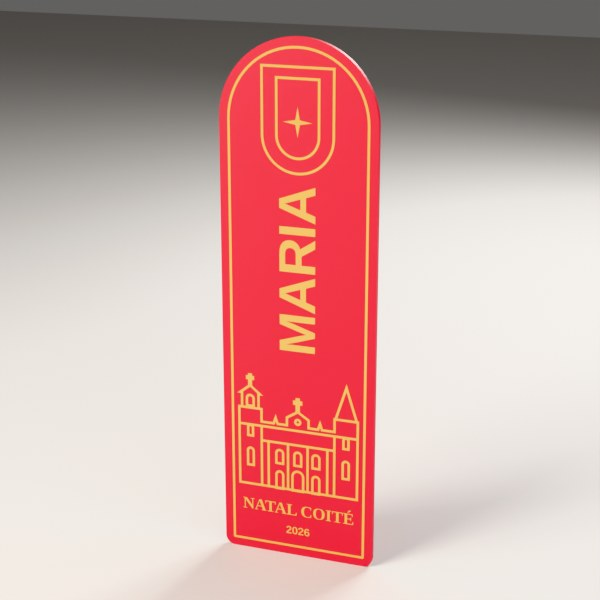
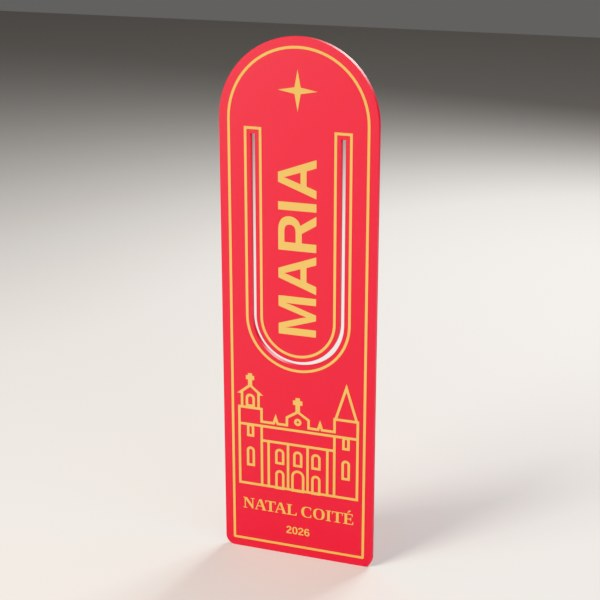
Marcador: clipe maior, com a ponta para fora do livro

Changed region(s): [[0.39, 0.09, 0.6, 0.63]]

diff --git a/index.html b/index.html
@@ -111,7 +111,7 @@ html, body { overflow-x:hidden; }
 </aside>
 <div id="toast"></div>
 <script>
-const D = {"itens": [{"id": "igreja", "nome": "Luminária Igreja Matriz", "texto": "A Matriz de Conceição do Coité iluminada por dentro, com as janelas brilhando. Base com o seu texto em letras douradas.", "img": "img/igreja.jpg", "medidas": "15,6 x 10,2 x 16,6 cm", "luz": "LED USB ou velinhas de LED", "preco": null, "preco_txt": "", "variacoes": [["Iluminação", ["LED USB", "2 velinhas de LED"]]], "campo": "Texto da base", "exemplo": "NATAL COITÉ / FAMÍLIA SILVA", "fotos": [{"quando": {"Iluminação": "2 velinhas de LED"}, "img": "img/igreja__velas.jpg"}, {"quando": {"Iluminação": "LED USB"}, "img": "img/igreja.jpg"}], "acesas": {"img/igreja.jpg": "img/igreja__acesa.jpg", "img/igreja__velas.jpg": "img/igreja__velas__acesa.jpg"}}, {"id": "arvore_luminaria", "nome": "Luminária Árvore Natal Luz", "texto": "Árvore translúcida com aros e estrela, que acende com LED. O texto contorna a base.", "img": "img/arvore_luminaria.jpg", "medidas": "12,4 x 12,5 x 24,3 cm", "luz": "LED USB", "preco": null, "preco_txt": "", "variacoes": [], "campo": "Texto da base", "exemplo": "NATAL COITÉ 2026", "fotos": [], "acesas": {"img/arvore_luminaria.jpg": "img/arvore_luminaria__acesa.jpg"}}, {"id": "estrela", "nome": "Estrela Luminosa", "texto": "A estrela de 4 pontas do Natal Coité, com a Matriz desenhada em dourado. Acende por dentro. Também no tema Natal clássico, com árvore de Natal no lugar da Matriz.", "img": "img/estrela.jpg", "medidas": "16,9 x 5,2 x 15,8 cm", "luz": "LED USB ou velinha de LED", "preco": null, "preco_txt": "", "variacoes": [["Tema", ["Natal Coité 2026", "Natal clássico (árvore)"]], ["Iluminação", ["LED USB", "Velinha de LED"]]], "campo": "Palavras dos braços", "exemplo": "NATAL / COITÉ", "fotos": [{"quando": {"Tema": "Natal clássico (árvore)", "Iluminação": "Velinha de LED"}, "img": "img/estrela__natal_velas.jpg"}, {"quando": {"Tema": "Natal clássico (árvore)"}, "img": "img/estrela__natal.jpg"}, {"quando": {"Iluminação": "Velinha de LED"}, "img": "img/estrela__velas.jpg"}, {"quando": {"Iluminação": "LED USB"}, "img": "img/estrela.jpg"}], "acesas": {"img/estrela.jpg": "img/estrela__acesa.jpg", "img/estrela__natal_velas.jpg": "img/estrela__natal_velas__acesa.jpg", "img/estrela__natal.jpg": "img/estrela__natal__acesa.jpg", "img/estrela__velas.jpg": "img/estrela__velas__acesa.jpg"}}, {"id": "presepio", "nome": "Presépio em Camadas", "texto": "Presépio em silhueta, em camadas, com a Matriz e a estrela ao fundo. Cabe uma velinha de LED atrás. Também no tema Natal clássico, com árvore de Natal no lugar da Matriz.", "img": "img/presepio.jpg", "medidas": "17 x 8,2 x 13,9 cm", "luz": "", "preco": null, "preco_txt": "", "variacoes": [["Tema", ["Natal Coité 2026", "Natal clássico (árvore)"]]], "campo": "Texto da frente", "exemplo": "NATAL COITÉ • 2026", "fotos": [{"quando": {"Tema": "Natal clássico (árvore)"}, "img": "img/presepio__natal.jpg"}], "acesas": {}}, {"id": "guirlanda", "nome": "Guirlanda de Porta", "texto": "Guirlanda de azevinho com frutinhas e medalhão central com a Matriz e o nome da família. Pronta para pendurar. Também no tema Natal clássico, com árvore de Natal no lugar da Matriz.", "img": "img/guirlanda.jpg", "medidas": "31,4 x 31,8 cm", "luz": "", "preco": null, "preco_txt": "", "variacoes": [["Tema", ["Natal Coité 2026", "Natal clássico (árvore)"]]], "campo": "Nome da família", "exemplo": "FAMÍLIA SILVA", "fotos": [{"quando": {"Tema": "Natal clássico (árvore)"}, "img": "img/guirlanda__natal.jpg"}], "acesas": {}}, {"id": "placa", "nome": "Placa de Mesa", "texto": "Placa em arco com a Matriz em traço dourado, com pé que encaixa. Ótima para a mesa da ceia ou o comércio. Também no tema Natal clássico, com árvore de Natal no lugar da Matriz.", "img": "img/placa.jpg", "medidas": "16,6 x 5,1 x 12,9 cm", "luz": "", "preco": null, "preco_txt": "", "variacoes": [["Tema", ["Natal Coité 2026", "Natal clássico (árvore)"]]], "campo": "Linha de baixo", "exemplo": "CONCEIÇÃO DO COITÉ • 2026", "fotos": [{"quando": {"Tema": "Natal clássico (árvore)"}, "img": "img/placa__natal.jpg"}], "acesas": {}}, {"id": "porta_retrato", "nome": "Porta-retrato 10x15", "texto": "Moldura com a Matriz e o nome da família em dourado, tampa de trás com trava e pezinho. Também no tema Natal clássico, com árvore de Natal no lugar da Matriz.", "img": "img/porta_retrato.jpg", "medidas": "13,4 x 6,2 x 23,3 cm", "luz": "", "preco": null, "preco_txt": "", "variacoes": [["Tema", ["Natal Coité 2026", "Natal clássico (árvore)"]]], "campo": "Nome da família", "exemplo": "FAMÍLIA SILVA • 2026", "fotos": [{"quando": {"Tema": "Natal clássico (árvore)"}, "img": "img/porta_retrato__natal.jpg"}], "acesas": {}}, {"id": "portacopos", "nome": "Jogo de Porta-copos", "texto": "4 porta-copos (Matriz, estrela, floco e nome da família) num suporte com a fachada da Matriz. Também no tema Natal clássico, com árvore de Natal no lugar da Matriz.", "img": "img/portacopos.jpg", "medidas": "10,2 x 10,2 x 8,5 cm", "luz": "", "preco": null, "preco_txt": "", "variacoes": [["Tema", ["Natal Coité 2026", "Natal clássico (árvore)"]], ["Desenhos", ["Jogo variado", "Todos Matriz", "Todos estrela", "Todos floco de neve", "Todos com o nome"]], ["Suporte", ["Com suporte da Matriz", "Sem suporte"]]], "campo": "Nome da família", "exemplo": "FAMÍLIA SILVA", "fotos": [{"quando": {"Tema": "Natal clássico (árvore)"}, "img": "img/portacopos__natal.jpg"}, {"quando": {"Desenhos": "Jogo variado", "Suporte": "Com suporte da Matriz"}, "img": "img/portacopos__variado_sim.jpg"}, {"quando": {"Desenhos": "Jogo variado", "Suporte": "Sem suporte"}, "img": "img/portacopos__variado_nao.jpg"}, {"quando": {"Desenhos": "Todos Matriz", "Suporte": "Com suporte da Matriz"}, "img": "img/portacopos__matriz_sim.jpg"}, {"quando": {"Desenhos": "Todos Matriz", "Suporte": "Sem suporte"}, "img": "img/portacopos__matriz_nao.jpg"}, {"quando": {"Desenhos": "Todos estrela", "Suporte": "Com suporte da Matriz"}, "img": "img/portacopos__estrela_sim.jpg"}, {"quando": {"Desenhos": "Todos estrela", "Suporte": "Sem suporte"}, "img": "img/portacopos__estrela_nao.jpg"}, {"quando": {"Desenhos": "Todos floco de neve", "Suporte": "Com suporte da Matriz"}, "img": "img/portacopos__floco_sim.jpg"}, {"quando": {"Desenhos": "Todos floco de neve", "Suporte": "Sem suporte"}, "img": "img/portacopos__floco_nao.jpg"}, {"quando": {"Desenhos": "Todos com o nome", "Suporte": "Com suporte da Matriz"}, "img": "img/portacopos__nome_sim.jpg"}, {"quando": {"Desenhos": "Todos com o nome", "Suporte": "Sem suporte"}, "img": "img/portacopos__nome_nao.jpg"}], "acesas": {}}, {"id": "miniatura", "nome": "Miniatura da Matriz", "texto": "A Igreja Matriz em 3D, pequena, para pendurar na árvore ou enfeitar a estante.", "img": "img/miniatura.jpg", "medidas": "6,3 x 4 x 6,1 cm", "luz": "", "preco": null, "preco_txt": "", "variacoes": [["Uso", ["Enfeite de árvore (com argola)", "Peça de mesa (sem argola)"]]], "campo": "Nome gravado atrás (opcional)", "exemplo": "FAMÍLIA SILVA", "fotos": [{"quando": {"Uso": "Peça de mesa (sem argola)"}, "img": "img/miniatura__sem_argola.jpg"}, {"quando": {"Uso": "Enfeite de árvore (com argola)"}, "img": "img/miniatura.jpg"}], "acesas": {}}, {"id": "bola", "nome": "Bola de Natal com Nome", "texto": "Bola de 8 cm com o nome em letras douradas na frente e a Matriz no verso. Também no tema Natal clássico, com árvore de Natal e FELIZ NATAL no verso.", "img": "img/bola.jpg", "medidas": "8 x 8,2 x 9 cm", "luz": "", "preco": null, "preco_txt": "", "variacoes": [["Tema", ["Natal Coité 2026", "Natal clássico (árvore)"]], ["Verso", ["Desenho do tema", "Floco de neve"]]], "campo": "Nome", "exemplo": "MARIA", "fotos": [{"quando": {"Tema": "Natal Coité 2026", "Verso": "Desenho do tema"}, "img": "img/bola__matriz.jpg"}, {"quando": {"Tema": "Natal clássico (árvore)", "Verso": "Desenho do tema"}, "img": "img/bola__arvore.jpg"}, {"quando": {"Verso": "Floco de neve"}, "img": "img/bola__floco.jpg"}], "acesas": {}}, {"id": "chaveiro", "nome": "Chaveiro Igreja, Árvore ou Circo", "texto": "Chaveiro no contorno da nossa Matriz, de uma árvore de Natal ou da lona de circo (tema do Natal Coité 2026). Leve e resistente.", "img": "img/chaveiro.jpg", "medidas": "11 x 6,1 cm", "luz": "", "preco": null, "preco_txt": "", "variacoes": [["Modelo", ["Igreja Matriz", "Árvore de Natal", "Circo"]]], "campo": "Texto da faixa", "exemplo": "NATAL COITÉ", "fotos": [{"quando": {"Modelo": "Igreja Matriz"}, "img": "img/chaveiro__igreja.jpg"}, {"quando": {"Modelo": "Circo"}, "img": "img/chaveiro__circo.jpg"}, {"quando": {"Modelo": "Árvore de Natal"}, "img": "img/chaveiro__arvore.jpg"}], "acesas": {}}, {"id": "fidget", "nome": "Fidget Giratório", "texto": "Chaveiro que gira de verdade e já sai pronto da impressora: roleta de circo (tema do Natal Coité 2026) ou floco de neve com FELIZ NATAL (Natal clássico).", "img": "img/fidget.jpg", "medidas": "4,7 x 5,5 cm", "luz": "", "preco": null, "preco_txt": "", "variacoes": [["Tema", ["Natal Coité 2026", "Natal clássico (floco de neve)"]]], "campo": "Texto do arco", "exemplo": "NATAL COITÉ", "fotos": [{"quando": {"Tema": "Natal clássico (floco de neve)"}, "img": "img/fidget__natal.jpg"}], "acesas": {}}, {"id": "medalhao", "nome": "Medalhão: enfeite, chaveiro ou ímã", "texto": "Arco, estrela e a Matriz em dourado. Em três tamanhos: enfeite de árvore, chaveiro ou ímã de geladeira. Também no tema Natal clássico, com árvore de Natal no lugar da Matriz.", "img": "img/medalhao.jpg", "medidas": "Ø 8 cm / 4,5 cm / 5,5 cm", "luz": "", "preco": null, "preco_txt": "", "variacoes": [["Tema", ["Natal Coité 2026", "Natal clássico (árvore)"]], ["Formato", ["Enfeite de árvore Ø 8 cm", "Chaveiro Ø 4,5 cm", "Ímã de geladeira Ø 5,5 cm"]]], "campo": "", "exemplo": "", "fotos": [{"quando": {"Tema": "Natal clássico (árvore)"}, "img": "img/medalhao__natal.jpg"}, {"quando": {"Formato": "Chaveiro Ø 4,5 cm"}, "img": "img/medalhao__chaveiro.jpg"}, {"quando": {"Formato": "Ímã de geladeira Ø 5,5 cm"}, "img": "img/medalhao__ima.jpg"}, {"quando": {"Formato": "Enfeite de árvore Ø 8 cm"}, "img": "img/medalhao.jpg"}], "acesas": {}}, {"id": "tags", "nome": "Tags de Presente", "texto": "Etiquetas com a Matriz e o nome de quem vai ganhar o presente, ou em branco para escrever. Também no tema Natal clássico, com árvore de Natal no lugar da Matriz.", "img": "img/tags.jpg", "medidas": "4,4 x 7,2 cm", "luz": "", "preco": null, "preco_txt": "", "variacoes": [["Tema", ["Natal Coité 2026", "Natal clássico (árvore)"]]], "campo": "Nome (vazio = tag em branco DE/PARA)", "exemplo": "MARIA", "fotos": [{"quando": {"Tema": "Natal clássico (árvore)"}, "img": "img/tags__natal.jpg"}], "acesas": {}}, {"id": "marcador", "nome": "Marcador de Página", "texto": "Marcador com o nome, a Matriz em dourado e clipe que prende na página. Lembrança que dura o ano todo. Também no tema Natal clássico, com árvore de Natal no lugar da Matriz.", "img": "img/marcador.jpg", "medidas": "4,8 x 16 cm", "luz": "", "preco": null, "preco_txt": "", "variacoes": [["Tema", ["Natal Coité 2026", "Natal clássico (árvore)"]]], "campo": "Nome", "exemplo": "ANA BEATRIZ", "fotos": [{"quando": {"Tema": "Natal clássico (árvore)"}, "img": "img/marcador__natal.jpg"}], "acesas": {}}], "whats": "5575992067303", "loja": "Loja Sigma Lab - Natal Coité 2026", "marca": "Sigma Lab 3D"};
+const D = {"itens": [{"id": "igreja", "nome": "Luminária Igreja Matriz", "texto": "A Matriz de Conceição do Coité iluminada por dentro, com as janelas brilhando. Base com o seu texto em letras douradas.", "img": "img/igreja.jpg", "medidas": "15,6 x 10,2 x 16,6 cm", "luz": "LED USB ou velinhas de LED", "preco": null, "preco_txt": "", "variacoes": [["Iluminação", ["LED USB", "2 velinhas de LED"]]], "campo": "Texto da base", "exemplo": "NATAL COITÉ / FAMÍLIA SILVA", "fotos": [{"quando": {"Iluminação": "2 velinhas de LED"}, "img": "img/igreja__velas.jpg"}, {"quando": {"Iluminação": "LED USB"}, "img": "img/igreja.jpg"}], "acesas": {"img/igreja.jpg": "img/igreja__acesa.jpg", "img/igreja__velas.jpg": "img/igreja__velas__acesa.jpg"}}, {"id": "arvore_luminaria", "nome": "Luminária Árvore Natal Luz", "texto": "Árvore translúcida com aros e estrela, que acende com LED. O texto contorna a base.", "img": "img/arvore_luminaria.jpg", "medidas": "12,4 x 12,5 x 24,3 cm", "luz": "LED USB", "preco": null, "preco_txt": "", "variacoes": [], "campo": "Texto da base", "exemplo": "NATAL COITÉ 2026", "fotos": [], "acesas": {"img/arvore_luminaria.jpg": "img/arvore_luminaria__acesa.jpg"}}, {"id": "estrela", "nome": "Estrela Luminosa", "texto": "A estrela de 4 pontas do Natal Coité, com a Matriz desenhada em dourado. Acende por dentro. Também no tema Natal clássico, com árvore de Natal no lugar da Matriz.", "img": "img/estrela.jpg", "medidas": "16,9 x 5,2 x 15,8 cm", "luz": "LED USB ou velinha de LED", "preco": null, "preco_txt": "", "variacoes": [["Tema", ["Natal Coité 2026", "Natal clássico (árvore)"]], ["Iluminação", ["LED USB", "Velinha de LED"]]], "campo": "Palavras dos braços", "exemplo": "NATAL / COITÉ", "fotos": [{"quando": {"Tema": "Natal clássico (árvore)", "Iluminação": "Velinha de LED"}, "img": "img/estrela__natal_velas.jpg"}, {"quando": {"Tema": "Natal clássico (árvore)"}, "img": "img/estrela__natal.jpg"}, {"quando": {"Iluminação": "Velinha de LED"}, "img": "img/estrela__velas.jpg"}, {"quando": {"Iluminação": "LED USB"}, "img": "img/estrela.jpg"}], "acesas": {"img/estrela.jpg": "img/estrela__acesa.jpg", "img/estrela__natal_velas.jpg": "img/estrela__natal_velas__acesa.jpg", "img/estrela__natal.jpg": "img/estrela__natal__acesa.jpg", "img/estrela__velas.jpg": "img/estrela__velas__acesa.jpg"}}, {"id": "presepio", "nome": "Presépio em Camadas", "texto": "Presépio em silhueta, em camadas, com a Matriz e a estrela ao fundo. Cabe uma velinha de LED atrás. Também no tema Natal clássico, com árvore de Natal no lugar da Matriz.", "img": "img/presepio.jpg", "medidas": "17 x 8,2 x 13,9 cm", "luz": "", "preco": null, "preco_txt": "", "variacoes": [["Tema", ["Natal Coité 2026", "Natal clássico (árvore)"]]], "campo": "Texto da frente", "exemplo": "NATAL COITÉ • 2026", "fotos": [{"quando": {"Tema": "Natal clássico (árvore)"}, "img": "img/presepio__natal.jpg"}], "acesas": {}}, {"id": "guirlanda", "nome": "Guirlanda de Porta", "texto": "Guirlanda de azevinho com frutinhas e medalhão central com a Matriz e o nome da família. Pronta para pendurar. Também no tema Natal clássico, com árvore de Natal no lugar da Matriz.", "img": "img/guirlanda.jpg", "medidas": "31,4 x 31,8 cm", "luz": "", "preco": null, "preco_txt": "", "variacoes": [["Tema", ["Natal Coité 2026", "Natal clássico (árvore)"]]], "campo": "Nome da família", "exemplo": "FAMÍLIA SILVA", "fotos": [{"quando": {"Tema": "Natal clássico (árvore)"}, "img": "img/guirlanda__natal.jpg"}], "acesas": {}}, {"id": "placa", "nome": "Placa de Mesa", "texto": "Placa em arco com a Matriz em traço dourado, com pé que encaixa. Ótima para a mesa da ceia ou o comércio. Também no tema Natal clássico, com árvore de Natal no lugar da Matriz.", "img": "img/placa.jpg", "medidas": "16,6 x 5,1 x 12,9 cm", "luz": "", "preco": null, "preco_txt": "", "variacoes": [["Tema", ["Natal Coité 2026", "Natal clássico (árvore)"]]], "campo": "Linha de baixo", "exemplo": "CONCEIÇÃO DO COITÉ • 2026", "fotos": [{"quando": {"Tema": "Natal clássico (árvore)"}, "img": "img/placa__natal.jpg"}], "acesas": {}}, {"id": "porta_retrato", "nome": "Porta-retrato 10x15", "texto": "Moldura com a Matriz e o nome da família em dourado, tampa de trás com trava e pezinho. Também no tema Natal clássico, com árvore de Natal no lugar da Matriz.", "img": "img/porta_retrato.jpg", "medidas": "13,4 x 6,2 x 23,3 cm", "luz": "", "preco": null, "preco_txt": "", "variacoes": [["Tema", ["Natal Coité 2026", "Natal clássico (árvore)"]]], "campo": "Nome da família", "exemplo": "FAMÍLIA SILVA • 2026", "fotos": [{"quando": {"Tema": "Natal clássico (árvore)"}, "img": "img/porta_retrato__natal.jpg"}], "acesas": {}}, {"id": "portacopos", "nome": "Jogo de Porta-copos", "texto": "4 porta-copos (Matriz, estrela, floco e nome da família) num suporte com a fachada da Matriz. Também no tema Natal clássico, com árvore de Natal no lugar da Matriz.", "img": "img/portacopos.jpg", "medidas": "10,2 x 10,2 x 8,5 cm", "luz": "", "preco": null, "preco_txt": "", "variacoes": [["Tema", ["Natal Coité 2026", "Natal clássico (árvore)"]], ["Desenhos", ["Jogo variado", "Todos Matriz", "Todos estrela", "Todos floco de neve", "Todos com o nome"]], ["Suporte", ["Com suporte da Matriz", "Sem suporte"]]], "campo": "Nome da família", "exemplo": "FAMÍLIA SILVA", "fotos": [{"quando": {"Tema": "Natal clássico (árvore)"}, "img": "img/portacopos__natal.jpg"}, {"quando": {"Desenhos": "Jogo variado", "Suporte": "Com suporte da Matriz"}, "img": "img/portacopos__variado_sim.jpg"}, {"quando": {"Desenhos": "Jogo variado", "Suporte": "Sem suporte"}, "img": "img/portacopos__variado_nao.jpg"}, {"quando": {"Desenhos": "Todos Matriz", "Suporte": "Com suporte da Matriz"}, "img": "img/portacopos__matriz_sim.jpg"}, {"quando": {"Desenhos": "Todos Matriz", "Suporte": "Sem suporte"}, "img": "img/portacopos__matriz_nao.jpg"}, {"quando": {"Desenhos": "Todos estrela", "Suporte": "Com suporte da Matriz"}, "img": "img/portacopos__estrela_sim.jpg"}, {"quando": {"Desenhos": "Todos estrela", "Suporte": "Sem suporte"}, "img": "img/portacopos__estrela_nao.jpg"}, {"quando": {"Desenhos": "Todos floco de neve", "Suporte": "Com suporte da Matriz"}, "img": "img/portacopos__floco_sim.jpg"}, {"quando": {"Desenhos": "Todos floco de neve", "Suporte": "Sem suporte"}, "img": "img/portacopos__floco_nao.jpg"}, {"quando": {"Desenhos": "Todos com o nome", "Suporte": "Com suporte da Matriz"}, "img": "img/portacopos__nome_sim.jpg"}, {"quando": {"Desenhos": "Todos com o nome", "Suporte": "Sem suporte"}, "img": "img/portacopos__nome_nao.jpg"}], "acesas": {}}, {"id": "miniatura", "nome": "Miniatura da Matriz", "texto": "A Igreja Matriz em 3D, pequena, para pendurar na árvore ou enfeitar a estante.", "img": "img/miniatura.jpg", "medidas": "6,3 x 4 x 6,1 cm", "luz": "", "preco": null, "preco_txt": "", "variacoes": [["Uso", ["Enfeite de árvore (com argola)", "Peça de mesa (sem argola)"]]], "campo": "Nome gravado atrás (opcional)", "exemplo": "FAMÍLIA SILVA", "fotos": [{"quando": {"Uso": "Peça de mesa (sem argola)"}, "img": "img/miniatura__sem_argola.jpg"}, {"quando": {"Uso": "Enfeite de árvore (com argola)"}, "img": "img/miniatura.jpg"}], "acesas": {}}, {"id": "bola", "nome": "Bola de Natal com Nome", "texto": "Bola de 8 cm com o nome em letras douradas na frente e a Matriz no verso. Também no tema Natal clássico, com árvore de Natal e FELIZ NATAL no verso.", "img": "img/bola.jpg", "medidas": "8 x 8,2 x 9 cm", "luz": "", "preco": null, "preco_txt": "", "variacoes": [["Tema", ["Natal Coité 2026", "Natal clássico (árvore)"]], ["Verso", ["Desenho do tema", "Floco de neve"]]], "campo": "Nome", "exemplo": "MARIA", "fotos": [{"quando": {"Tema": "Natal Coité 2026", "Verso": "Desenho do tema"}, "img": "img/bola__matriz.jpg"}, {"quando": {"Tema": "Natal clássico (árvore)", "Verso": "Desenho do tema"}, "img": "img/bola__arvore.jpg"}, {"quando": {"Verso": "Floco de neve"}, "img": "img/bola__floco.jpg"}], "acesas": {}}, {"id": "chaveiro", "nome": "Chaveiro Igreja, Árvore ou Circo", "texto": "Chaveiro no contorno da nossa Matriz, de uma árvore de Natal ou da lona de circo (tema do Natal Coité 2026). Leve e resistente.", "img": "img/chaveiro.jpg", "medidas": "11 x 6,1 cm", "luz": "", "preco": null, "preco_txt": "", "variacoes": [["Modelo", ["Igreja Matriz", "Árvore de Natal", "Circo"]]], "campo": "Texto da faixa", "exemplo": "NATAL COITÉ", "fotos": [{"quando": {"Modelo": "Igreja Matriz"}, "img": "img/chaveiro__igreja.jpg"}, {"quando": {"Modelo": "Circo"}, "img": "img/chaveiro__circo.jpg"}, {"quando": {"Modelo": "Árvore de Natal"}, "img": "img/chaveiro__arvore.jpg"}], "acesas": {}}, {"id": "fidget", "nome": "Fidget Giratório", "texto": "Chaveiro que gira de verdade e já sai pronto da impressora: roleta de circo (tema do Natal Coité 2026) ou floco de neve com FELIZ NATAL (Natal clássico).", "img": "img/fidget.jpg", "medidas": "4,7 x 5,5 cm", "luz": "", "preco": null, "preco_txt": "", "variacoes": [["Tema", ["Natal Coité 2026", "Natal clássico (floco de neve)"]]], "campo": "Texto do arco", "exemplo": "NATAL COITÉ", "fotos": [{"quando": {"Tema": "Natal clássico (floco de neve)"}, "img": "img/fidget__natal.jpg"}], "acesas": {}}, {"id": "medalhao", "nome": "Medalhão: enfeite, chaveiro ou ímã", "texto": "Arco, estrela e a Matriz em dourado. Em três tamanhos: enfeite de árvore, chaveiro ou ímã de geladeira. Também no tema Natal clássico, com árvore de Natal no lugar da Matriz.", "img": "img/medalhao.jpg", "medidas": "Ø 8 cm / 4,5 cm / 5,5 cm", "luz": "", "preco": null, "preco_txt": "", "variacoes": [["Tema", ["Natal Coité 2026", "Natal clássico (árvore)"]], ["Formato", ["Enfeite de árvore Ø 8 cm", "Chaveiro Ø 4,5 cm", "Ímã de geladeira Ø 5,5 cm"]]], "campo": "", "exemplo": "", "fotos": [{"quando": {"Tema": "Natal clássico (árvore)"}, "img": "img/medalhao__natal.jpg"}, {"quando": {"Formato": "Chaveiro Ø 4,5 cm"}, "img": "img/medalhao__chaveiro.jpg"}, {"quando": {"Formato": "Ímã de geladeira Ø 5,5 cm"}, "img": "img/medalhao__ima.jpg"}, {"quando": {"Formato": "Enfeite de árvore Ø 8 cm"}, "img": "img/medalhao.jpg"}], "acesas": {}}, {"id": "tags", "nome": "Tags de Presente", "texto": "Etiquetas com a Matriz e o nome de quem vai ganhar o presente, ou em branco para escrever. Também no tema Natal clássico, com árvore de Natal no lugar da Matriz.", "img": "img/tags.jpg", "medidas": "4,4 x 7,2 cm", "luz": "", "preco": null, "preco_txt": "", "variacoes": [["Tema", ["Natal Coité 2026", "Natal clássico (árvore)"]]], "campo": "Nome (vazio = tag em branco DE/PARA)", "exemplo": "MARIA", "fotos": [{"quando": {"Tema": "Natal clássico (árvore)"}, "img": "img/tags__natal.jpg"}], "acesas": {}}, {"id": "marcador", "nome": "Marcador de Página", "texto": "Marcador com o nome, a Matriz em dourado e clipe que prende na página, com a pontinha da estrela para fora do livro. Lembrança que dura o ano todo. Também no tema Natal clássico, com árvore de Natal no lugar da Matriz.", "img": "img/marcador.jpg", "medidas": "4,8 x 16 cm", "luz": "", "preco": null, "preco_txt": "", "variacoes": [["Tema", ["Natal Coité 2026", "Natal clássico (árvore)"]]], "campo": "Nome", "exemplo": "ANA BEATRIZ", "fotos": [{"quando": {"Tema": "Natal clássico (árvore)"}, "img": "img/marcador__natal.jpg"}], "acesas": {}}], "whats": "5575992067303", "loja": "Loja Sigma Lab - Natal Coité 2026", "marca": "Sigma Lab 3D"};
 const R$ = v => v.toLocaleString("pt-BR", {style: "currency", currency: "BRL"});
 const esc = s => String(s).replace(/[&<>"']/g, c => ({"&":"&amp;","<":"&lt;",">":"&gt;",'"':"&quot;","'":"&#39;"}[c]));
 let car = []; try { car = JSON.parse(localStorage.getItem("carrinho_natal_coite") || "[]"); } catch (e) { car = []; }
